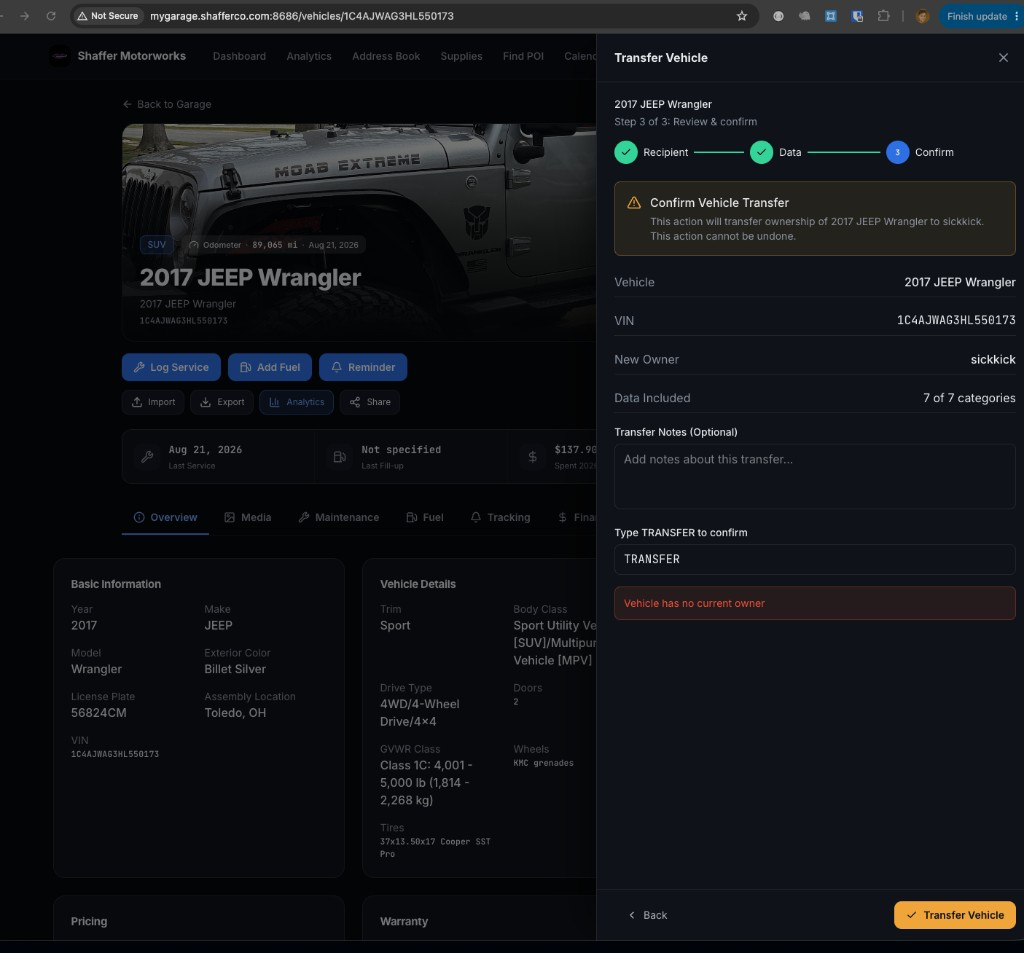
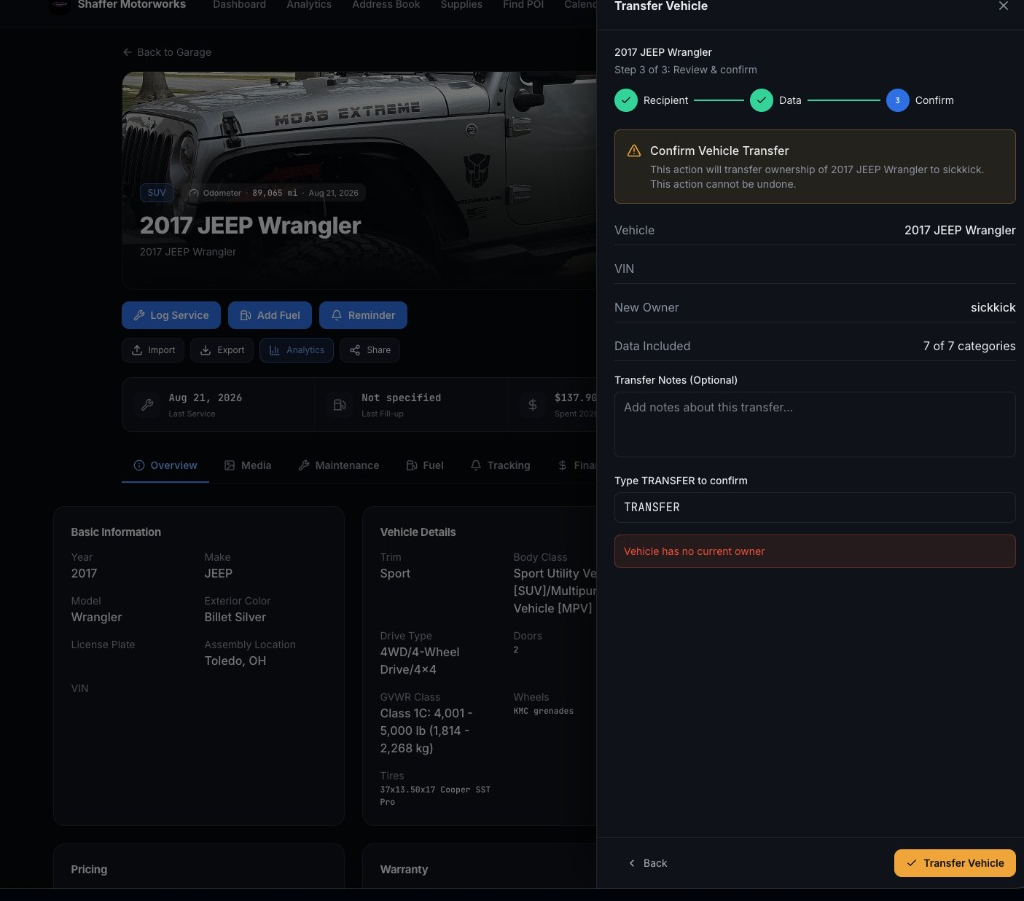
fix: resolve CI failures and redact transfer screenshot
Ruff-format migration 090, restore upstream OpenAPI vehicle types
(keep nullable from_user only), and crop/redact VIN + plate from the
Before screenshot (browser chrome removed).

diff --git a/frontend/src/types/api.generated.ts b/frontend/src/types/api.generated.ts
@@ -14417,7 +14417,7 @@ export interface components {
              * @description Type of vehicle
              * @enum {string}
              */
-            vehicle_type: "Car" | "Truck" | "SUV" | "Motorcycle" | "ATV" | "RV" | "Trailer" | "FifthWheel" | "TravelTrailer" | "Electric" | "Hybrid";
+            vehicle_type: "Car" | "Truck" | "SUV" | "Motorcycle" | "ATV" | "RV" | "Trailer" | "FifthWheel" | "TravelTrailer" | "Electric" | "Hybrid" | "Boat" | "UTV" | "Snowmobile" | "Bicycle" | "EBike";
             /**
              * Vin
              * @description 17-character Vehicle Identification Number
@@ -14890,7 +14890,7 @@ export interface components {
              * @description Type of vehicle
              * @enum {string}
              */
-            vehicle_type: "Car" | "Truck" | "SUV" | "Motorcycle" | "ATV" | "RV" | "Trailer" | "FifthWheel" | "TravelTrailer" | "Electric" | "Hybrid";
+            vehicle_type: "Car" | "Truck" | "SUV" | "Motorcycle" | "ATV" | "RV" | "Trailer" | "FifthWheel" | "TravelTrailer" | "Electric" | "Hybrid" | "Boat" | "UTV" | "Snowmobile" | "Bicycle" | "EBike";
             /** Vin */
             vin: string;
             /** Warranty Basic */
@@ -15325,7 +15325,7 @@ export interface components {
              * Vehicle Type
              * @description Type of vehicle
              */
-            vehicle_type?: ("Car" | "Truck" | "SUV" | "Motorcycle" | "ATV" | "RV" | "Trailer" | "FifthWheel" | "TravelTrailer" | "Electric" | "Hybrid") | null;
+            vehicle_type?: ("Car" | "Truck" | "SUV" | "Motorcycle" | "ATV" | "RV" | "Trailer" | "FifthWheel" | "TravelTrailer" | "Electric" | "Hybrid" | "Boat" | "UTV" | "Snowmobile" | "Bicycle" | "EBike") | null;
             /**
              * Warranty Basic
              * @description Basic warranty

diff --git a/backend/app/migrations/090_nullable_transfer_from_user.py b/backend/app/migrations/090_nullable_transfer_from_user.py
@@ -28,8 +28,7 @@ _INDEXES = (
     "ON vehicle_transfers (vehicle_vin)",
     "CREATE INDEX IF NOT EXISTS ix_vehicle_transfers_from_user_id "
     "ON vehicle_transfers (from_user_id)",
-    "CREATE INDEX IF NOT EXISTS ix_vehicle_transfers_to_user_id "
-    "ON vehicle_transfers (to_user_id)",
+    "CREATE INDEX IF NOT EXISTS ix_vehicle_transfers_to_user_id ON vehicle_transfers (to_user_id)",
     "CREATE INDEX IF NOT EXISTS ix_vehicle_transfers_transferred_at "
     "ON vehicle_transfers (transferred_at)",
 )
@@ -65,10 +64,7 @@ def upgrade(engine=None) -> None:
     if engine.dialect.name == "postgresql":
         with engine.begin() as conn:
             conn.execute(
-                text(
-                    "ALTER TABLE vehicle_transfers "
-                    "ALTER COLUMN from_user_id DROP NOT NULL"
-                )
+                text("ALTER TABLE vehicle_transfers ALTER COLUMN from_user_id DROP NOT NULL")
             )
             print("  ✓ Dropped NOT NULL on vehicle_transfers.from_user_id")
     else:
